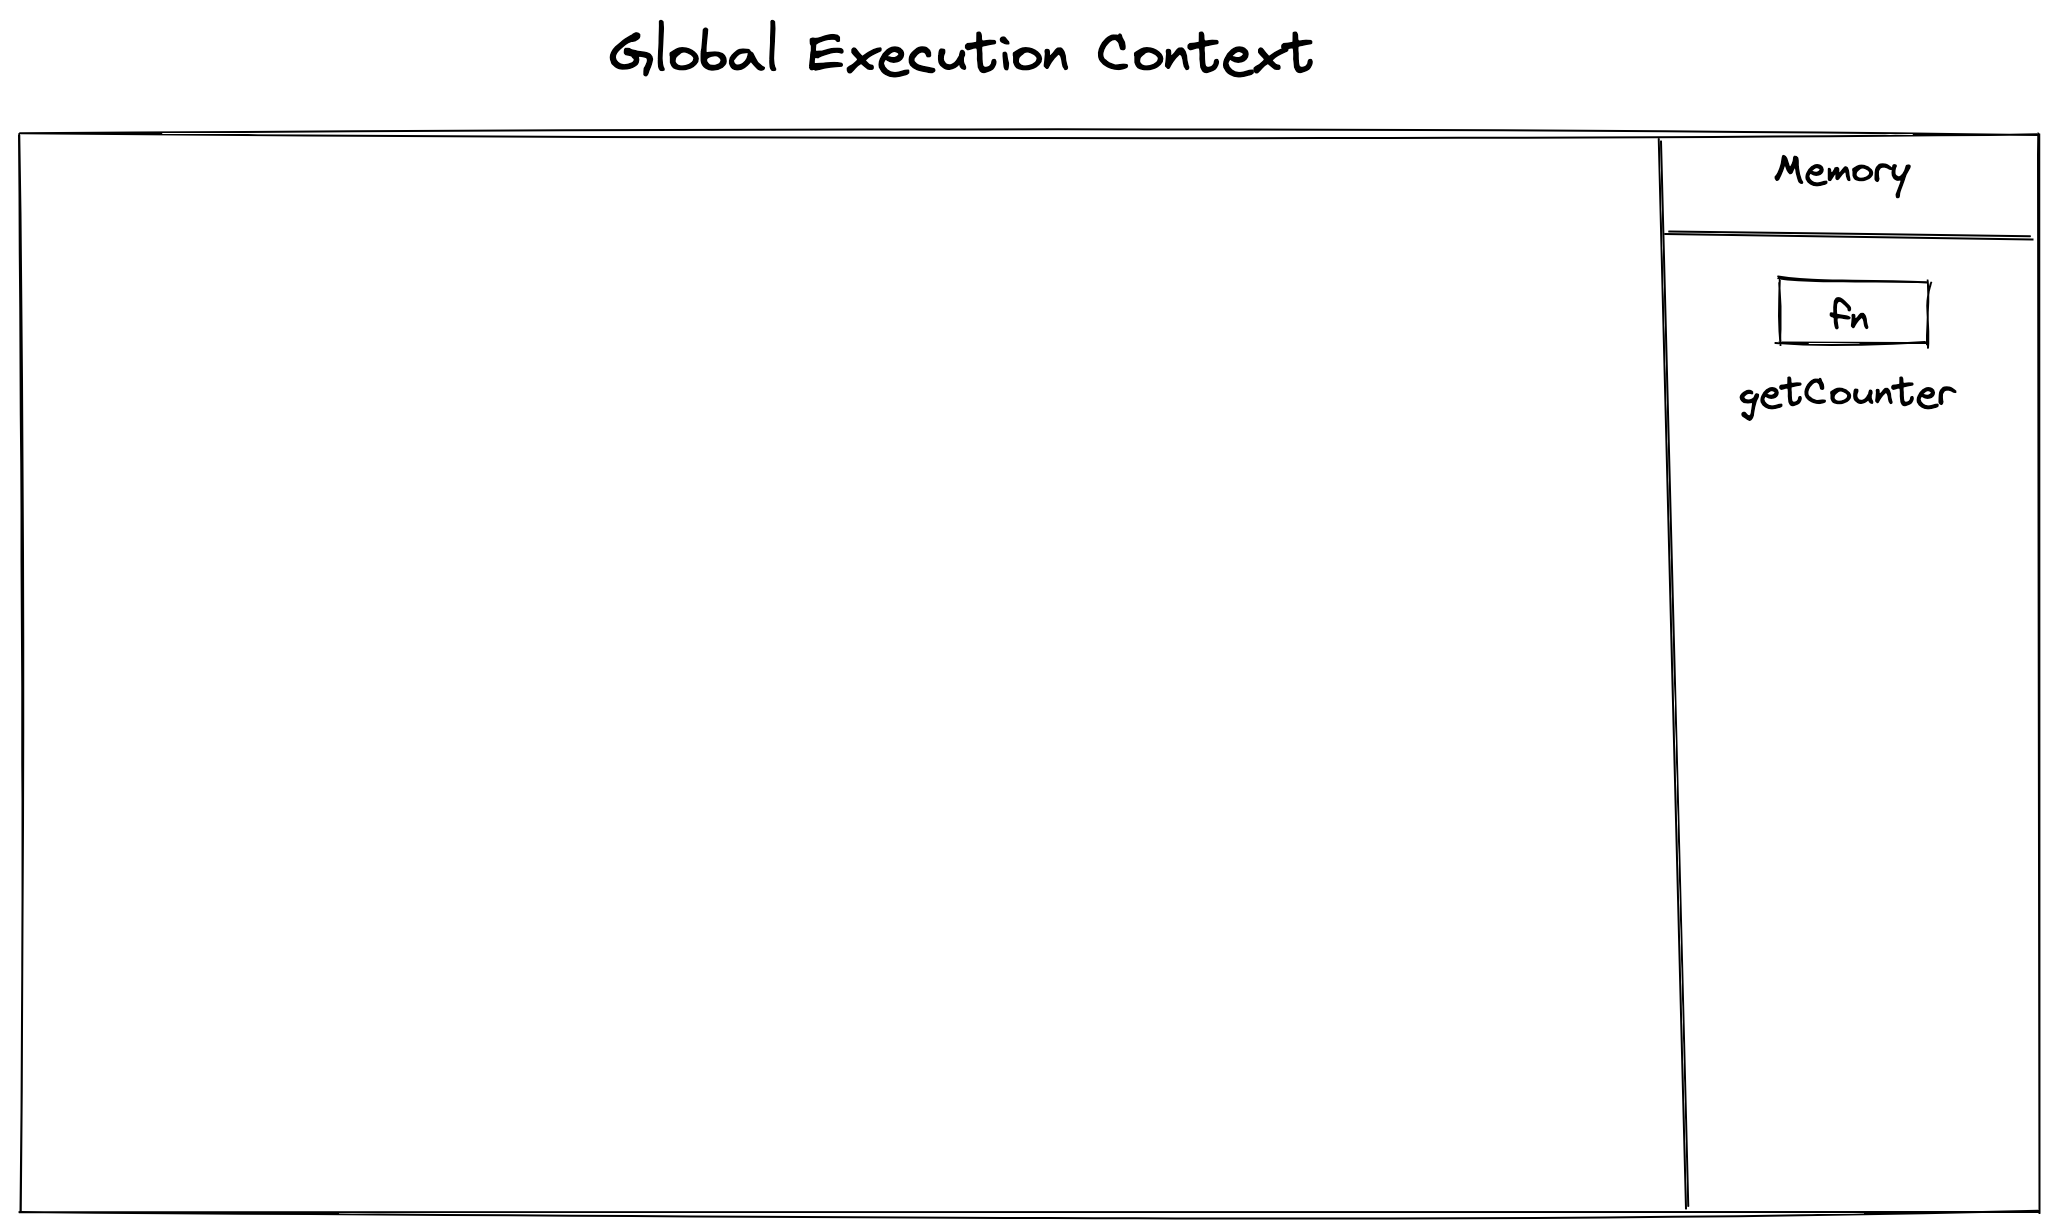
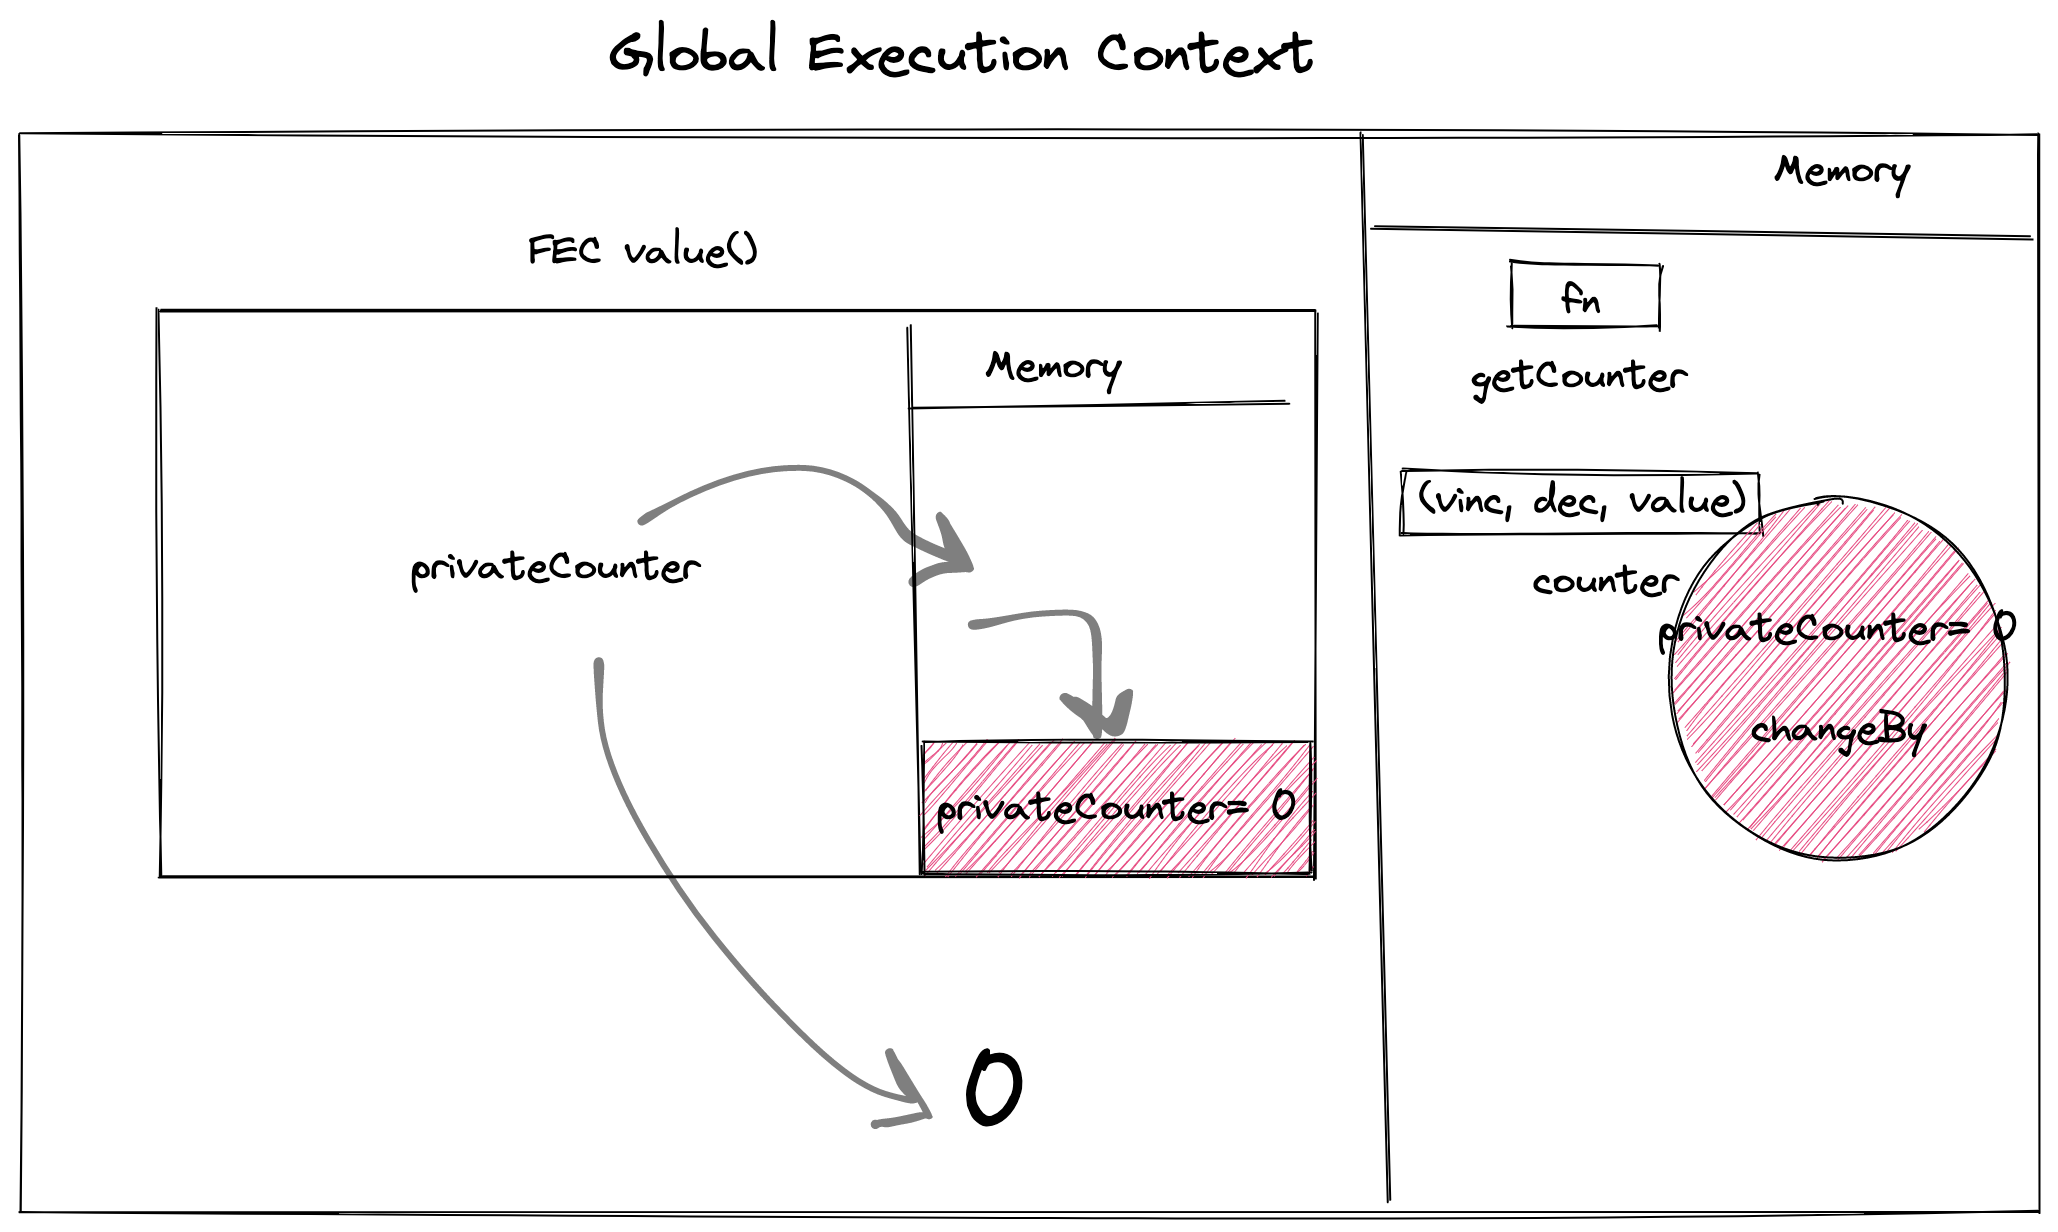
refactor

diff --git a/block-BJaahd/code/TODO.md b/block-BJaahd/code/TODO.md
@@ -21,15 +21,15 @@ function getCounter() {
 
 let counter = getCounter()
 
-counter.value();  // output
-counter.increment(); // output
-counter.increment(); // output
-counter.value(); // output
-counter.decrement(); // output
-counter.value(); // output
+counter.value();  // 0
+counter.increment(); // undefined
+counter.increment(); // undefined
+counter.value(); // 2
+counter.decrement(); // undefined
+counter.value(); // 1
 ```
 
-![](/code/img/img-1.png)
+![]( /code/img/img-1.png)
 
 2. Create the execution context diagram and write the output.
 
@@ -57,13 +57,13 @@ function makeCounter() {
 let counter1 = makeCounter();
 let counter2 = makeCounter();
 
-console.log(counter1.value());  // OUTPUT
+console.log(counter1.value());  // 0
 
 counter1.increment();
 counter1.increment();
-console.log(counter1.value()); // OUTPUT
+console.log(counter1.value()); // 2
 
 counter1.decrement();
-console.log(counter1.value()); // OUTPUT
-console.log(counter2.value()); // OUTPUT
+console.log(counter1.value()); // 1
+console.log(counter2.value()); // 0
 ```
